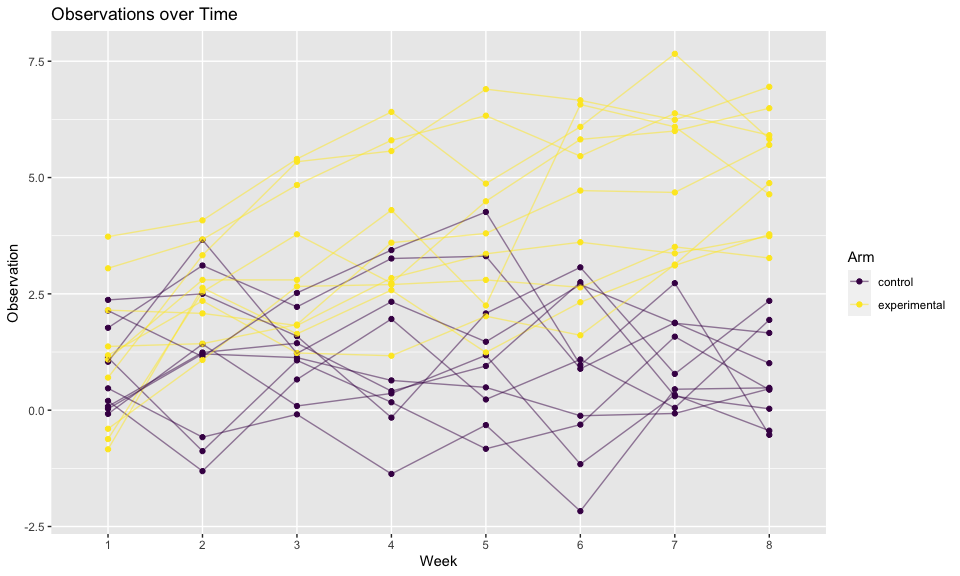
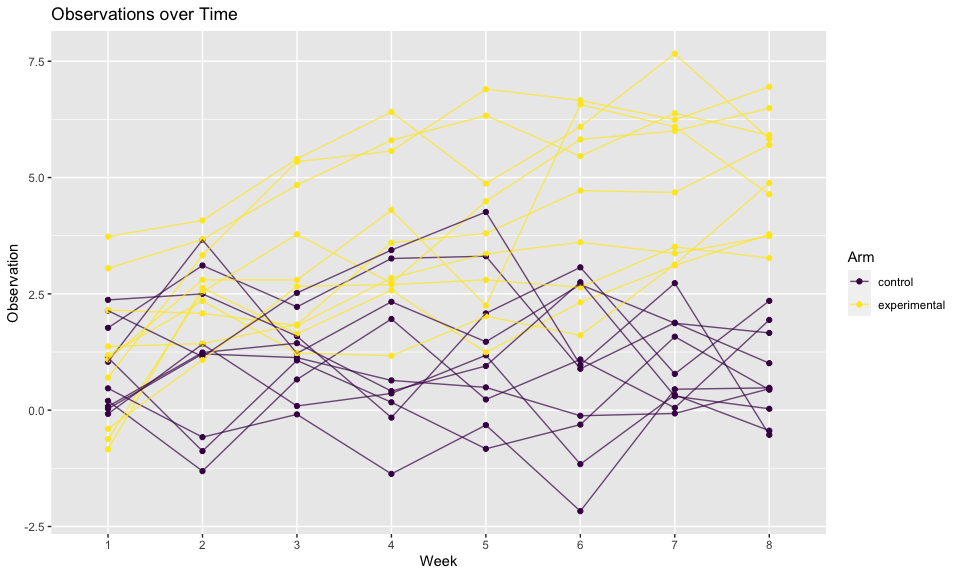
probelm 3 description

diff --git a/p8105_hw5_bc2918.md b/p8105_hw5_bc2918.md
@@ -1,7 +1,7 @@
 Homework 5
 ================
 Beibei Cao
-2020-11-15
+2020-11-16
 
 ## Problem 1
 
@@ -126,7 +126,7 @@ study_df =
          ) %>%
   unnest(data) %>% 
   select(-path) %>% 
-  # transform into long format 
+  # transform into tidy (long) format 
   pivot_longer(
     week_1:week_8,
     names_prefix = "week_",
@@ -157,9 +157,10 @@ Make a spaghetti plot showing observations on each subject over time.
 
 ``` r
 study_df %>% 
-  # plot 
+  # plot observation vs. time for each subject (point + line)
   ggplot(aes(x = week, y = observation, group = interaction(arm, id), color = arm)) +
-  geom_point() + geom_line(alpha = 0.5) +
+  geom_point() + 
+  geom_line(alpha = 0.7) +
   labs(
     title = "Observations over Time",
     x = "Week",
@@ -211,7 +212,7 @@ rej_prop = function(res){
   return(prop$n)
 }
 
-# function to calculate average estimates
+# function to calculate average estimates and everage rejected estimates
 get_avg = function(res){
   avg = tibble(
     avg_estimate = mean(res$mu_hat),
@@ -221,7 +222,7 @@ get_avg = function(res){
 }
 ```
 
-Simulate.
+Simulate (set μ from `0-6`, test against null hypothesis μ = 0).
 
 ``` r
 set.seed(100)
@@ -229,13 +230,14 @@ res =
   # set mu 0-6
   tibble(mu = seq(0,6)) %>% 
   mutate(
-    # generate simulation data
+    # generate simulation data (5000 sample each)
     data = map(.x = mu, ~mutiple_test(mu = .x)),
     # calculated rejection proportion
     rej_prop = map(.x = data, ~rej_prop(.x)),
     # get average estimates for all samples and average estimates for samples with null rejected
     avg = map(.x = data, ~get_avg(.x))
-    ) %>% 
+    ) %>%
+  # tidy the df
   unnest(rej_prop, avg)
 ```
 
@@ -261,8 +263,7 @@ res %>% unnest(data)
     ## # … with 34,990 more rows
 
 Make a plot showing the proportion of times the null was rejected (the
-power of the test) on the y axis and the true value of \(\mu\) on the x
-axis.
+power of the test) on the y axis and the true value of μ on the x axis.
 
 ``` r
 res %>% 
@@ -283,21 +284,25 @@ res %>%
 ![](p8105_hw5_bc2918_files/figure-gfm/unnamed-chunk-12-1.png)<!-- -->
 
 It could be observed from the plot that the effect size significantly
-effect the power. As the effect size deviating from 0, the proportion of
-rejecting null hypothesis gets higher and higher, which makes sense
-because the true mean now indeed is not 0 and the null should be
-rejected more and more likely as the difference gets larger.
+effect the power. As the effect size deviating from 0, the power,
+proportion of rejected null hypothesis, gets higher and higher, which
+makes sense because the true mean now indeed is not 0 and the null
+should be rejected more and more likely as the difference gets larger.
+When the difference is large enough, the power approaches 1.0.
 
-Make a plot showing the average estimate of μ̂ (of total and of rejected
-samples) on the y axis and the true value of μ on the x axis.
+Make a plot showing the average estimate of μ̂ (of all samples and of
+null hypothesis rejected samples) on the y axis and the true value of μ
+on the x axis.
 
 ``` r
 res %>% 
+  # transofrm into long format to facilitate plotting
   pivot_longer(
     avg_estimate:avg_rejected,
     names_to = "estimate_type",
     values_to = "estimate_value"
   ) %>%
+  # plot for both average estimates
   ggplot(aes(x = mu, y = estimate_value, color = estimate_type)) +
   geom_point(alpha = 0.7) +
   geom_smooth(size = 0.3, se = FALSE) +
@@ -315,5 +320,12 @@ res %>%
 
 ![](p8105_hw5_bc2918_files/figure-gfm/unnamed-chunk-13-1.png)<!-- -->
 
-The sample average of μ̂ across tests for which the null is rejected
-approximately equal to the true value of μ? Why or why not?
+It could be observed that the sample average of μ̂ across tests for
+which the null is rejected `deviates more` from the true value of μ when
+the true value of μ is actually close to the 0 (which is the value we
+set in the null hypothesis), and `gets closer` to the true mean when the
+true mean gets larger and more different from the nul. It makes sense
+because when the true mean is closer to the null, the cases get rejected
+are more of extreme samples that deviates from the true mean, while when
+the true mean is drastically different from the null, most cases will be
+rejected, the means of which will just approximate the true mean.
